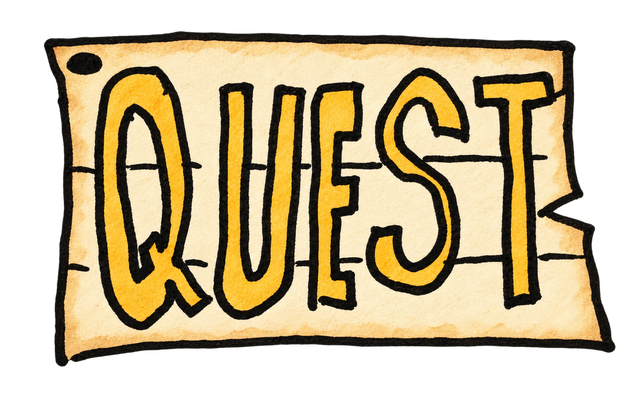
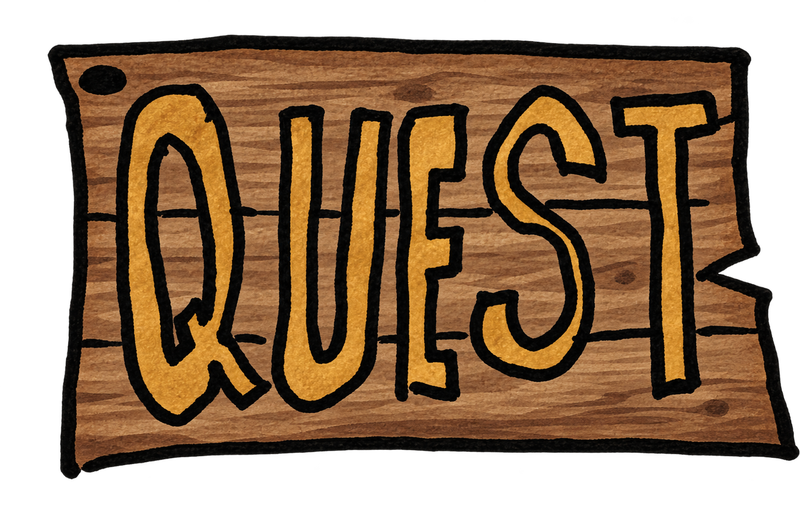
Make town service art primary destination buttons

diff --git a/js/app.js b/js/app.js
@@ -72,7 +72,7 @@ function render(){const renderStartedAt=performance.now(),combatKey=state.combat
   if(screen==='create'&&!creationDraft){const classNames=Object.keys(STARTING_CLASSES),className=classNames[Math.floor(Math.random()*classNames.length)],generated=generateAbsurdName();creationDraft={name:generated.name,className,stats:rollStartingStats(className)}}
   if(screen==='event'){const event=dungeonEvents[state.dungeon.currentEventId];if(!event){screen='dungeon';render();return}body=`${header()}<p class="eyebrow">Below town · Level ${state.dungeon.floor} · ${esc(event.type)}</p>${roomBackdropMarkup(state.dungeon,event.id)}<section class="panel event-panel"><h1 class="section-title">${esc(event.title)}</h1><p>${esc(event.description)}</p><div class="event-choices">${event.choices.filter(choice=>!choice.requiresEffect||equippedEffect(choice.requiresEffect)).map(choice=>{const needItem=choice.requiresItem,missingFlag=choice.requiresFlag&&!state.dungeon.eventFlags[choice.requiresFlag],disabled=choice.requiresGold&&state.town.gold<choice.requiresGold||needItem&&countItem(needItem.item)<needItem.quantity||missingFlag;const reason=choice.warning||needItem&&`Requires ${needItem.quantity} ${items[needItem.item].name}`||choice.requiresGold&&`${choice.requiresGold} gold`||missingFlag&&'Discover this first';return `<button class="event-choice" data-event-choice="${event.id}:${choice.id}" ${disabled?'disabled':''}><b>${esc(choice.label)}</b>${reason?`<small>${esc(reason)}</small>`:''}</button>`}).join('')}</div>${message?`<p class="notice">${esc(message)}</p>`:''}</section><p class="subtle">Your choice is saved with this expedition.</p>`}
   if(screen==='create')body=`${header()}<section class="character-create"><p class="eyebrow">DELVER REGISTRATION</p><h1 class="section-title">Why Is There a Hole in the Middle of Town?</h1><form id="create-form"><label class="creation-name">Name<input name="name" maxlength="24" required value="${esc(creationDraft.name)}" autocomplete="given-name"></label><label class="creation-class">Class<select name="class" aria-describedby="class-preview">${Object.keys(STARTING_CLASSES).map(name=>`<option value="${esc(name)}" ${creationDraft.className===name?'selected':''}>${esc(name)}</option>`).join('')}</select></label><div class="class-preview" id="class-preview" aria-live="polite">${classPreview(creationDraft.className,creationDraft.stats)}</div><button class="randomize-character" type="button" data-action="randomize-character">Randomize Character</button><button class="reroll-stats" type="button" data-action="reroll-stats">Reroll Stats</button><button class="primary start-adventure" type="submit">Start Adventure</button></form></section>`;
-  if(screen==='town'){const ready=state.quests.active.filter(entry=>questStatus(entry.id).status==='ready').length,shop=marketState();body=`${header()}<section class="town-hub"><div class="town-hub-heading"><p class="eyebrow">Town · Hole District</p><h1 class="section-title">Choose your next stop.</h1></div>${townStatus()}<div class="hub-grid"><button class="location location-hole" data-art-slot="the-hole" data-go="dungeon">${townArtMarkup('the-hole','↓')}<b>ENTER THE HOLE</b><small>Deepest: Floor ${state.dungeon.deepestFloor||1}</small></button><button class="location location-store" data-art-slot="general-store" data-go="store">${townArtMarkup('general-store','▤')}<b>GENERAL STORE</b><small>Market cycle ${shop.cycle}</small></button><button class="location location-inn" data-art-slot="inn" data-go="inn">${townArtMarkup('inn','⌂')}<b>THE INN</b><small>HP ${state.player.hp}/${state.player.maxHp} · MP ${state.player.mp}/${state.player.maxMp}</small></button><button class="location location-quests" data-art-slot="quest-board" data-go="quests">${townArtMarkup('quest-board','▧')}<b>QUEST BOARD</b><small>${ready?`${ready} ready to turn in`:`${state.quests.available.length} new notices`}</small></button><button class="location location-character" data-art-slot="character" data-go="character"><span class="location-art" aria-hidden="true"><span>◉</span></span><b>CHARACTER</b><small>Level ${state.player.level} ${esc(state.player.class)}</small></button><button class="location location-records" data-go="statistics"><span class="location-art" aria-hidden="true"><span>▤</span></span><b>STATISTICS</b><small>${Object.keys(state.achievements?.unlocked||{}).length} achievements earned</small></button><button class="location location-achievements" data-go="achievements"><span class="location-art" aria-hidden="true"><span>★</span></span><b>ACHIEVEMENTS</b><small>${Object.keys(state.achievements?.unlocked||{}).length} / ${achievements.length}</small></button><button class="location location-settings" data-action="settings"><span class="location-art" aria-hidden="true"><span>⚙</span></span><b>SETTINGS</b><small>Play, controls, audio</small></button></div><p class="town-hub-flavor">${esc(shop.marketFlavor||'The town has a procedure for this. The hole does not.')}</p></section>`}
+  if(screen==='town'){const ready=state.quests.active.filter(entry=>questStatus(entry.id).status==='ready').length,shop=marketState();body=`${header()}<section class="town-hub"><div class="town-hub-heading"><p class="eyebrow">Town · Hole District</p><h1 class="section-title">Choose your next stop.</h1></div>${townStatus()}<div class="hub-grid"><button class="location location-hole location--art-destination" data-art-slot="the-hole" data-go="dungeon" aria-label="Enter the Hole. Deepest floor ${state.dungeon.deepestFloor||1}">${townArtMarkup('the-hole','↓')}<b>ENTER THE HOLE</b><small>Deepest: Floor ${state.dungeon.deepestFloor||1}</small></button><button class="location location-store location--art-destination" data-art-slot="general-store" data-go="store" aria-label="Open General Store">${townArtMarkup('general-store','▤')}<b>GENERAL STORE</b><small>Market cycle ${shop.cycle}</small></button><button class="location location-inn location--art-destination" data-art-slot="inn" data-go="inn" aria-label="Visit the Inn">${townArtMarkup('inn','⌂')}<b>THE INN</b><small>HP ${state.player.hp}/${state.player.maxHp} · MP ${state.player.mp}/${state.player.maxMp}</small></button><button class="location location-quests location--art-destination" data-art-slot="quest-board" data-go="quests" aria-label="Open Quest Board">${townArtMarkup('quest-board','▧')}<b>QUEST BOARD</b><small>${ready?`${ready} ready to turn in`:`${state.quests.available.length} new notices`}</small></button><button class="location location-character" data-art-slot="character" data-go="character"><span class="location-art" aria-hidden="true"><span>◉</span></span><b>CHARACTER</b><small>Level ${state.player.level} ${esc(state.player.class)}</small></button><button class="location location-records" data-go="statistics"><span class="location-art" aria-hidden="true"><span>▤</span></span><b>STATISTICS</b><small>${Object.keys(state.achievements?.unlocked||{}).length} achievements earned</small></button><button class="location location-achievements" data-go="achievements"><span class="location-art" aria-hidden="true"><span>★</span></span><b>ACHIEVEMENTS</b><small>${Object.keys(state.achievements?.unlocked||{}).length} / ${achievements.length}</small></button><button class="location location-settings" data-action="settings"><span class="location-art" aria-hidden="true"><span>⚙</span></span><b>SETTINGS</b><small>Play, controls, audio</small></button></div><p class="town-hub-flavor">${esc(shop.marketFlavor||'The town has a procedure for this. The hole does not.')}</p></section>`}
   if(screen==='quests'){const available=state.quests.available.map(id=>quests[id]).filter(Boolean),active=state.quests.active.map(entry=>({quest:quests[entry.id],...questStatus(entry.id)})).filter(entry=>entry.quest),ready=active.filter(entry=>entry.status==='ready'),inProgress=active.filter(entry=>entry.status==='active'),completed=state.quests.completed.map(id=>quests[id]).filter(Boolean);body=`${header()}${townStatus()}<p class="eyebrow">Town · Notice board</p><h1 class="section-title">Quest Board</h1><p class="subtle">${esc(townNpcs.clerk.name)}: “${esc(townNpcLine('clerk'))}”</p>${ready.length?`<section class="panel quest-group"><h2>Ready to Turn In</h2>${ready.map(entry=>questCardMarkup(entry.quest,'ready',entry.progress)).join('')}</section>`:''}${inProgress.length?`<section class="panel quest-group"><h2>Active</h2>${inProgress.map(entry=>questCardMarkup(entry.quest,'active',entry.progress)).join('')}</section>`:''}${available.length?`<section class="panel quest-group"><h2>Available</h2>${available.map(quest=>questCardMarkup(quest,'available')).join('')}</section>`:''}${completed.length?`<section class="panel quest-group"><h2>Completed</h2>${completed.map(quest=>questCardMarkup(quest,'completed')).join('')}</section>`:''}${!ready.length&&!inProgress.length&&!available.length&&!completed.length?'<p>No notices remain. The clerk says this is a good sign, statistically speaking.</p>':''}${message&&message!=='The town has posted new notices. The hole remains open.'?`<p class="notice" role="status">${esc(message)}</p>`:''}<button data-go="town">Back to town</button>`}
   if(screen==='store'){const stock=storeStock(),market=marketState(),sell=groupedInventory().filter(x=>!x.item.questItem);body=`${header()}${townStatus()}<section class="town-service-heading"><p class="eyebrow">Town · General Store · Market cycle ${market.cycle}</p><h1 class="section-title">Juniper Dunn’s General Store</h1><p class="subtle">“${esc(marketNpcLine(market))}”</p></section><section class="panel"><h2>Buy</h2><div class="merchant-list">${stock.map(item=>{const restricted=item.classes&&!item.classes.includes(state.player.class),poor=state.town.gold<buyPrice(item.id);return `<article class="item-row"><div>${itemPill(item.id)}<p>${esc(item.flavor)}</p><p>${esc(itemMods(item))}</p>${compareMarkup(item.id)}${poor?'<small class="unavailable-copy">Not enough gold</small>':''}${restricted?'<small class="unavailable-copy">Not available to this class</small>':''}</div><button data-buy="${item.id}" ${poor||restricted?'disabled':''}>Buy · ${buyPrice(item.id)}g</button></article>`}).join('')}</div></section><section class="panel"><h2>Sell</h2><p>Quest objects are protected. Items reserved for active quests cannot be sold. Unequip gear first.</p>${sell.map(({id,item,quantity})=>{const canSell=canRemoveItem(id,1),reserved=questReservedQuantity(id),demand=marketDemand(id),amount=Math.max(0,quantity-reserved),sale=salePrice(id);return `<article class="item-row"><div>${itemPill(id)}<small> × ${quantity} · ${esc(item.category)}</small><small class="market-demand market-${demand.state}">${esc(demand.label)} · Sell ${sale}g each</small>${reserved?`<small class="unavailable-copy">${reserved} reserved for an active quest</small>`:''}</div><div class="row"><button data-sell="${id}" ${!canSell||Object.values(state.equipment).includes(id)?'disabled':''}>Sell 1 · ${sale}g</button>${amount>1?`<button data-sell-all="${id}" ${Object.values(state.equipment).includes(id)?'disabled':''}>Sell all (${amount}) · ${amount*sale}g</button>`:''}</div></article>`}).join('')||'<p>Nothing eligible to sell.</p>'}</section><button data-go="town">Back to town</button>`}
   if(screen==='inn'){const full=state.player.hp>=state.player.maxHp&&state.player.mp>=state.player.maxMp,poor=state.town.gold<5,effects=innEffectSummary(),last=state.town.innEffects?.lastEvent?innEvents[state.town.innEffects.lastEvent]:null;body=`${header()}${townStatus()}<section class="town-service-heading"><p class="eyebrow">Town · The Lantern & Ledger</p><h1 class="section-title">The Inn</h1></section><section class="panel inn-panel"><p class="inn-greeting">Sal: “${esc(full?'You’re fine. Go away.':state.player.hp<=Math.ceil(state.player.maxHp/2)?'You look terrible. The room is ready.':'The room is quiet, and the blankets are accounted for.')}”</p><div class="inn-vitals"><span>HP <b>${state.player.hp}/${state.player.maxHp}</b></span><span>MP <b>${state.player.mp}/${state.player.maxMp}</b></span><span>REST <b>5g</b></span></div>${effects.length?`<p class="inn-effects"><b>Active:</b> ${effects.map(esc).join(' · ')}</p>`:'<p class="subtle">No active rest benefits.</p>'}${last?`<p class="inn-event">${esc(last.name)} · ${esc(last.description)}</p>`:''}<button class="primary inn-rest-button" data-action="rest" ${full||poor?'disabled':''}>REST — 5g</button>${full?'<p class="unavailable-copy">You’re already fully rested. No charge.</p>':poor?'<p class="unavailable-copy">You need 5 gold for a room.</p>':''}${message&&message!=='The town has posted new notices. The hole remains open.'?`<p class="transaction-feedback" role="status" aria-live="polite">${esc(message)}</p>`:''}</section><button data-go="town">Back to town</button>`}

diff --git a/css/mechanics.css b/css/mechanics.css
@@ -160,6 +160,27 @@
 @media(max-width:360px){.shell:has(.town-hub){padding:.45rem .55rem calc(.75rem + env(safe-area-inset-bottom))}.town-hub{gap:.35rem}.hub-grid{gap:.35rem;grid-auto-rows:minmax(68px,auto)}.location{min-height:68px;grid-template-columns:32px minmax(0,1fr);column-gap:.4rem;padding:.38rem}.location-art{width:30px;height:36px;font-size:1.25rem}.location-hole{min-height:82px;grid-template-columns:minmax(0,1fr) minmax(100px,42%)}.location-hole .location-art{width:100%;height:70px}.location b{font-size:.72rem}.location small{font-size:.65rem}.location-hole b{font-size:1rem}.town-hub-heading .section-title{font-size:1.24rem}.town-hub-flavor{font-size:.69rem}}
 @media(max-width:360px){.location-store,.location-inn,.location-quests{grid-template-columns:46px minmax(0,1fr)}.location-store .location-art--illustration,.location-inn .location-art--illustration,.location-quests .location-art--illustration{width:42px;height:34px}}
 
+/* The four signed destinations are themselves the primary Town controls. */
+.location--art-destination{min-width:0;min-height:132px;display:grid;grid-template-columns:minmax(0,1fr);grid-template-rows:68px auto auto;align-content:stretch;justify-items:stretch;gap:.18rem;padding:.5rem;text-align:center;border:1px solid #73694e;background:linear-gradient(145deg,#302f27,#202421);box-shadow:inset 0 1px #ffffff12,0 2px 7px #0004;transition:transform .12s ease,filter .12s ease,box-shadow .12s ease}
+.location--art-destination .location-art--illustration{grid-column:1;grid-row:1;width:100%;height:68px;min-width:0;max-width:none;border:1px solid #473e2d;border-radius:7px;background:#e8dfc9;box-shadow:inset 0 0 0 2px #fff3;overflow:hidden}
+.location--art-destination .location-art--illustration img{width:100%;height:100%;object-fit:contain}
+.location--art-destination b,.location--art-destination small{grid-column:1;align-self:center;min-width:0;text-align:center}
+.location--art-destination b{font-size:.79rem;line-height:1.1;letter-spacing:.06em}
+.location--art-destination small{font-size:.66rem;line-height:1.15}
+.location--art-destination.location-hole{grid-column:1/-1;min-height:118px;grid-template-columns:minmax(0,1fr) minmax(110px,39%);grid-template-rows:auto auto;align-items:center;justify-items:stretch;gap:.15rem .55rem;padding:.5rem .65rem;text-align:left;background:radial-gradient(ellipse at 82% 110%,#9a6534 0,#44321e 43%,#252923 78%);border-color:#a17a48;box-shadow:inset 0 -12px 25px #090a0970,0 4px 12px #0005}
+.location--art-destination.location-hole .location-art--illustration{grid-column:2;grid-row:1/3;width:100%;height:98px;background:#e8dfc9;border-color:#6a5839}
+.location--art-destination.location-hole b,.location--art-destination.location-hole small{grid-column:1;text-align:left}
+.location--art-destination.location-hole b{font-size:1.08rem;letter-spacing:.085em}
+.location--art-destination.location-hole small{font-size:.74rem}
+.location--art-destination.location-store{background:linear-gradient(145deg,#413823,#27261f);border-color:#987b43}
+.location--art-destination.location-inn{background:linear-gradient(145deg,#402f30,#252421);border-color:#8d6257}
+.location--art-destination.location-quests{background:linear-gradient(145deg,#343a2d,#222620);border-color:#687552}
+.location--art-destination:active{transform:translateY(1px) scale(.985);filter:brightness(1.12);box-shadow:inset 0 2px 8px #0005}
+.location--art-destination:focus-visible{outline:3px solid #f1d58f;outline-offset:2px;z-index:1}
+.location--art-destination:disabled{cursor:not-allowed;filter:grayscale(.75);opacity:.55}
+@media(max-width:360px){.location--art-destination{min-height:122px;grid-template-rows:62px auto auto;padding:.42rem}.location--art-destination .location-art--illustration{height:62px}.location--art-destination.location-hole{min-height:106px;grid-template-columns:minmax(0,1fr) minmax(96px,39%);padding:.42rem .5rem}.location--art-destination.location-hole .location-art--illustration{height:88px}.location--art-destination.location-hole b{font-size:.96rem}.location--art-destination b{font-size:.72rem}.location--art-destination small{font-size:.62rem}}
+@media(prefers-reduced-motion:reduce){.location--art-destination{transition:none}}
+
 /* Compact service navigation and one-screen character registration. */
 .town-status{position:sticky;top:env(safe-area-inset-top,0px);z-index:12;min-height:44px;flex-wrap:nowrap;gap:.25rem .7rem;margin:0 0 .5rem;padding:.28rem .45rem;border-radius:0 0 8px 8px;background:#171b19f7;backdrop-filter:blur(9px);font-size:.76rem}
 .town-return{min-height:44px;padding:.35rem .65rem;font-weight:800;white-space:nowrap}

diff --git a/index.html b/index.html
@@ -13,11 +13,11 @@
   <link rel="apple-touch-icon" sizes="180x180" href="assets/icons/apple-touch-icon.png">
   <link rel="manifest" href="site.webmanifest">
   <link rel="stylesheet" href="css/styles.css?v=b500b51">
-  <link rel="stylesheet" href="css/mechanics.css?v=town-service-signs-20261005a">
+  <link rel="stylesheet" href="css/mechanics.css?v=town-button-art-20261005a">
 </head>
 <body>
   <main id="app" aria-live="polite"></main>
   <div id="modal-root"></div>
-  <script type="module" src="js/app.js?v=town-service-signs-20261005a"></script>
+  <script type="module" src="js/app.js?v=town-button-art-20261005a"></script>
 </body>
 </html>

diff --git a/docs/CONTENT_GUIDE.md b/docs/CONTENT_GUIDE.md
@@ -151,7 +151,7 @@ For future hand-drawn props, provide paired transparent Colored and Original Ink
 
 ## Town art, market goods, and Inn events
 
-Town cards are responsive CSS components with stable art-slot IDs: the-hole, general-store, inn, quest-board, and character. User drawings are the canonical location designs. Add paired files under `assets/images/town/` and register their paths by slot in `js/town-art.js`; use them as emblems or small location illustrations inside the card's flexible art area and related service header, never as fixed-size card frames. Sprite Style switches town art between Original Ink and Colored. Keep the scene's outline and proportions intact, remove the paper, and check both modes at 320px and 390px. Current pairs are `the-hole-ink/colored.png`, `store-sign-ink/colored.png` for General Store, `inn-sign-ink/colored.png`, and `quest-sign-ink/colored.png` for Quest Board. The Hole drawing includes its sign and bench. Source photos are preserved in `assets/source/town/`.
+Town destinations are responsive CSS buttons with stable art-slot IDs: the-hole, general-store, inn, quest-board, and character. The Hole, store, inn, and quest user drawings form the art-led primary button tiles; keep a separate readable text label and the entire tile tappable. The drawings remain illustrations inside flexible CSS controls, never fixed-size graphical frames. Add paired files under `assets/images/town/` and register their paths by slot in `js/town-art.js`. Sprite Style switches town art between Original Ink and Colored. Keep the source drawing's outline and proportions intact, remove the paper, and check both modes at 320px and 390px. The Colored Quest Board asset uses a muted warm wood treatment; its Original Ink pair remains monochrome. Current pairs are `the-hole-ink/colored.png`, `store-sign-ink/colored.png` for General Store, `inn-sign-ink/colored.png`, and `quest-sign-ink/colored.png` for Quest Board. The Hole drawing includes its sign and bench. Source photos are preserved in `assets/source/town/`.
 
 Market goods are identified by category trade-good or junk; only these use persistent demand multipliers. Keep the listed sellValue as the base, since provenance does not change market price. The market cycle derives its stock and demand from the run seed plus cycle number, persists under town.shop, and advances once after a successful expedition return. innEvents in js/data.js describes weighted rest outcomes. Effects use the xp-bonus, temporary, or flavor forms and are checked by the content validator.
 
